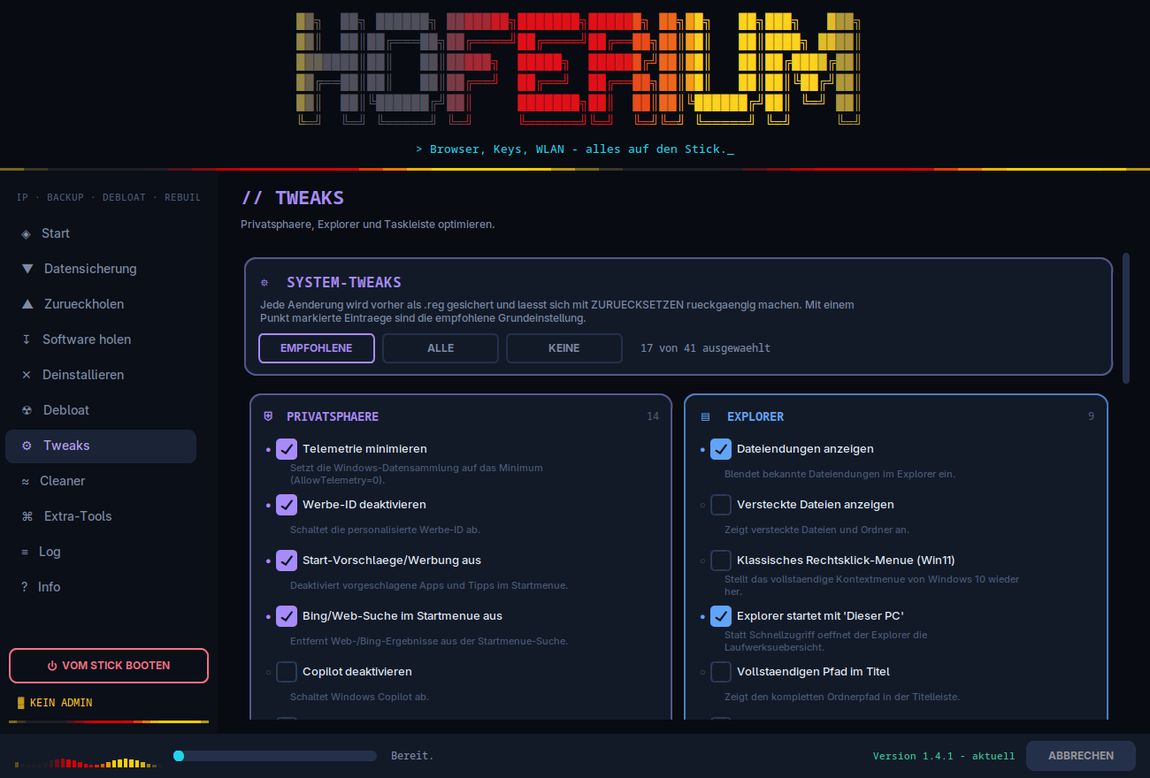
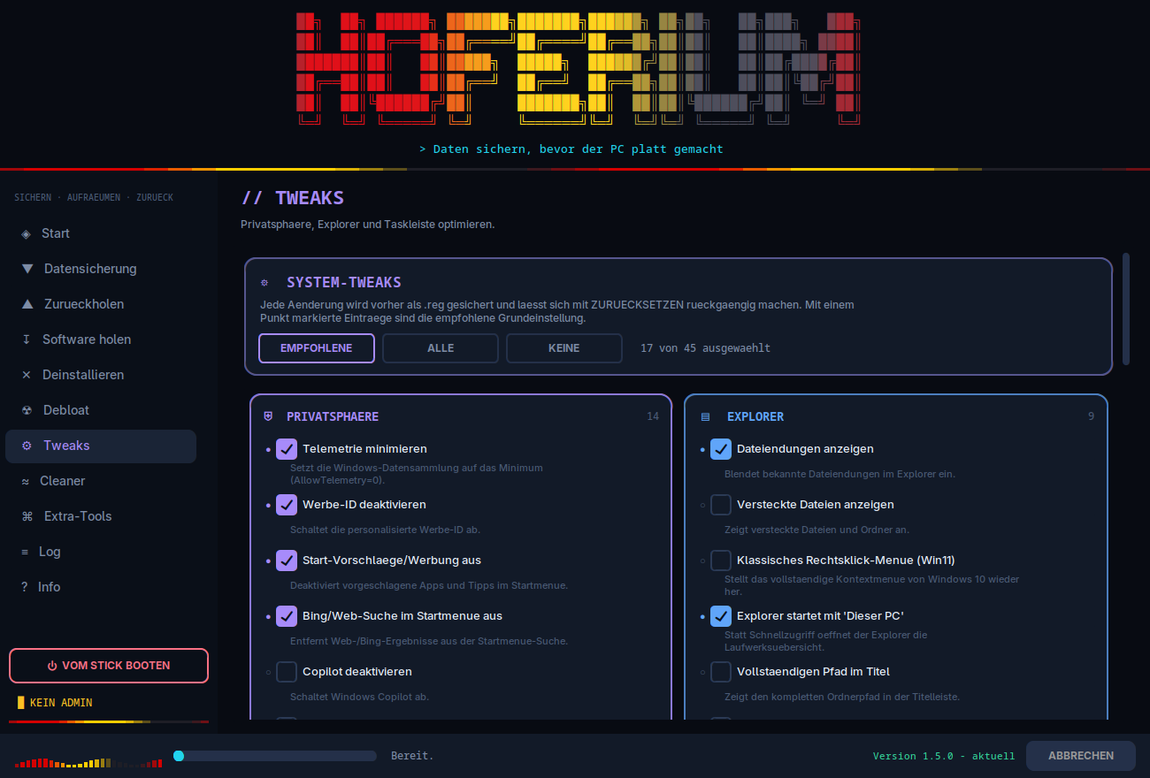
Tweaks: neue Kategorie "Anmeldung"
Vier Einstellungen rund um die Kennwortabfrage:
- Automatische Anmeldung freischalten
- Kein Passwort nach dem Ruhezustand (AC und DC)
- Sperrbildschirm ueberspringen
- Kein Strg+Alt+Entf zum Anmelden

Zur automatischen Anmeldung fuehren zwei Wege. Der verbreitete traegt
Benutzername und Passwort im KLARTEXT in die Registry
(Winlogon\DefaultPassword) - dort kann es jeder Leseberechtigte abholen.
Deshalb wird hier nur die netplwiz-Option freigeschaltet
(DevicePasswordLessBuildVersion=0); Windows legt das Kennwort danach
verschluesselt als LSA-Geheimnis ab. Hoferium schreibt kein Passwort.

Tweaks koennen jetzt einen Hinweis mitfuehren, der nach dem Anwenden im
Protokoll erscheint - hier der letzte Schritt in netplwiz, den das
Programm nicht abnehmen kann.

Damit 45 Tweaks in sieben Kategorien. README und LIESMICH ergaenzt,
samt dem Hinweis, dass alle vier Einstellungen jedem physischen Zugang
die Tuer oeffnen.

Version 1.6.0

diff --git a/nucleus/tweaks.py b/nucleus/tweaks.py
@@ -28,8 +28,9 @@ class Tweak:
     name: str
     category: str
     description: str
-    ops: list           # {hive, path, name, type('DWORD'|'SZ'), on, off}
+    ops: list           # {hive, path, name, type('DWORD'|'SZ'|'BINARY'), on, off}
     recommended: bool = False
+    hint: str = ""      # wird nach dem Anwenden ins Protokoll geschrieben
 
 
 TWEAKS: list = [
@@ -250,6 +251,48 @@ TWEAKS: list = [
           [{"hive": "HKLM",
             "path": r"SYSTEM\CurrentControlSet\Control\GraphicsDrivers",
             "name": "HwSchMode", "type": "DWORD", "on": 2, "off": 1}]),
+
+    # ---------------- Anmeldung ----------------
+    # Hinweis zum ersten Eintrag: Es gibt zwei Wege zur automatischen
+    # Anmeldung. Der verbreitete traegt Benutzername und Passwort IM KLARTEXT
+    # in die Registry (Winlogon\DefaultPassword) - jeder Leseberechtigte kann
+    # es dort abholen. Deshalb wird hier nur die netplwiz-Option
+    # freigeschaltet: Windows legt das Passwort danach verschluesselt als
+    # LSA-Geheimnis ab, nicht im Klartext.
+    Tweak("passwordless_option", "Automatische Anmeldung freischalten", "Anmeldung",
+          "Blendet in netplwiz die Option 'Benutzer muessen Benutzernamen und "
+          "Kennwort eingeben' wieder ein - bei Microsoft-Konten ist sie ab Werk "
+          "versteckt. Das Passwort wird dabei verschluesselt hinterlegt, nicht "
+          "im Klartext.",
+          [{"hive": "HKLM",
+            "path": r"SOFTWARE\Microsoft\Windows NT\CurrentVersion\PasswordLess\Device",
+            "name": "DevicePasswordLessBuildVersion", "type": "DWORD",
+            "on": 0, "off": 2}],
+          hint="Jetzt Windows-Taste+R druecken, 'netplwiz' eingeben, den Haken "
+               "bei 'Benutzer muessen Benutzernamen und Kennwort eingeben' "
+               "entfernen und das Passwort einmal bestaetigen."),
+    Tweak("no_wake_password", "Kein Passwort nach dem Ruhezustand", "Anmeldung",
+          "Nach Standby oder Bildschirmsperre wird nicht mehr nach dem Kennwort "
+          "gefragt - weder im Akku- noch im Netzbetrieb.",
+          [{"hive": "HKLM",
+            "path": r"SOFTWARE\Policies\Microsoft\Power\PowerSettings"
+                    r"\0e796bdb-100d-47d6-a2d5-f7d2daa51f51",
+            "name": "ACSettingIndex", "type": "DWORD", "on": 0, "off": 1},
+           {"hive": "HKLM",
+            "path": r"SOFTWARE\Policies\Microsoft\Power\PowerSettings"
+                    r"\0e796bdb-100d-47d6-a2d5-f7d2daa51f51",
+            "name": "DCSettingIndex", "type": "DWORD", "on": 0, "off": 1}]),
+    Tweak("no_lockscreen", "Sperrbildschirm ueberspringen", "Anmeldung",
+          "Beim Start erscheint direkt die Anmeldung statt des Bildes, das man "
+          "erst wegklicken muss.",
+          [{"hive": "HKLM",
+            "path": r"SOFTWARE\Policies\Microsoft\Windows\Personalization",
+            "name": "NoLockScreen", "type": "DWORD", "on": 1, "off": 0}]),
+    Tweak("no_ctrl_alt_del", "Kein Strg+Alt+Entf zum Anmelden", "Anmeldung",
+          "Entfernt den zusaetzlichen Tastendruck vor der Kennworteingabe.",
+          [{"hive": "HKLM",
+            "path": r"SOFTWARE\Microsoft\Windows\CurrentVersion\Policies\System",
+            "name": "DisableCAD", "type": "DWORD", "on": 1, "off": 0}]),
 ]
 
 
@@ -281,6 +324,8 @@ class TweakEngine:
                         self._set(op["hive"], op["path"], op["name"], op["type"], value)
                 ok += 1
                 self.r.ok(f"{tw.name}: {'aktiviert' if enable else 'zurueckgesetzt'}")
+                if enable and tw.hint:
+                    self.r.warn(f"  Noch zu tun: {tw.hint}")
             except Exception as e:
                 fail += 1
                 self.r.err(f"{tw.name}: {e}")

diff --git a/nucleus/ui.py b/nucleus/ui.py
@@ -1584,6 +1584,7 @@ class HoferiumApp(ctk.CTk):
         "Tempo":         (COLORS["amber"], "⚡"),
         "Updates":       (COLORS["magenta"], "↻"),
         "Gaming":        (COLORS["green"], "◈"),
+        "Anmeldung":     (COLORS["cyan"], "⚿"),
     }
 
     def _build_tweaks(self):

diff --git a/nucleus/__init__.py b/nucleus/__init__.py
@@ -13,5 +13,5 @@ Aufbau (OOP):
     ui          - customtkinter-Oberflaeche (Fenster, Seiten, Widgets)
 """
 
-__version__ = "1.5.0"
+__version__ = "1.6.0"
 APP_NAME = "Hoferium"

diff --git a/README.md b/README.md
@@ -4,7 +4,7 @@
 
 **Windows-PCs neu aufsetzen, ohne vorher stundenlang Daten zusammenzusuchen.**
 
-[![Version](https://img.shields.io/badge/Version-1.5.0-ffce00?style=flat-square&labelColor=1e1e26)](VERSION)
+[![Version](https://img.shields.io/badge/Version-1.6.0-ffce00?style=flat-square&labelColor=1e1e26)](VERSION)
 [![Windows](https://img.shields.io/badge/Windows-10%20%7C%2011-dd0000?style=flat-square&labelColor=1e1e26)](#voraussetzungen)
 [![Python](https://img.shields.io/badge/Python-wird%20mitinstalliert-1e1e26?style=flat-square&labelColor=1e1e26)](#voraussetzungen)
 [![Lizenz](https://img.shields.io/badge/Lizenz-MIT-1e1e26?style=flat-square&labelColor=1e1e26)](LICENSE)
@@ -34,7 +34,7 @@ selbst ein.
 | **Software** | Installer von den offiziellen Quellen laden oder direkt per `winget` einspielen; fehlt `winget`, richtet Hoferium es selbst ein. Die Programmliste wird beim Start aus diesem Repository aufgefrischt |
 | **Deinstallieren** | Win32- und Store-Programme mit Suchfeld auflisten und entfernen, auf Wunsch samt Datei- und Registry-Resten |
 | **Debloat** | Vorinstallierte Windows-Apps und Herstellerzugaben entfernen – als Ein-Klick-Lauf oder gezielt ausgewählt, Edge optional |
-| **Tweaks** | 41 umkehrbare Einstellungen zu Privatsphäre, Explorer, Taskleiste, Tempo, Updates und Gaming |
+| **Tweaks** | 45 umkehrbare Einstellungen zu Privatsphäre, Anmeldung, Explorer, Taskleiste, Tempo, Updates und Gaming |
 | **Cleaner** | Temp-Dateien (Benutzer und System), Update-Zwischenspeicher, Prefetch, Miniaturansichten und Papierkorb – mit Größenaufstellung vor dem Löschen |
 | **Werkzeuge** | Startet WinUtil, O&O ShutUp10++ und drei Sysinternals-Programme aus den Originalquellen |
 | **Vom Stick booten** | Startet den Rechner neu in die Startoptionen mit Geräteauswahl – oder ins UEFI-Setup |
@@ -120,6 +120,22 @@ läuft. Der Export dauert zwei Klicks; die CSV-Datei gehört mit auf den Stick
 und sollte nach dem Import wieder gelöscht werden.
 
 Hoferium entschlüsselt keine Passwörter und liest keine Anmeldedaten aus.
+
+### Anmeldung ohne Passwort
+
+Unter *Tweaks → Anmeldung* lässt sich die Kennwortabfrage abschalten. Für die
+**automatische Anmeldung beim Start** schaltet Hoferium die entsprechende
+Option in `netplwiz` frei, statt Benutzername und Kennwort in die Registry zu
+schreiben – der verbreitete Weg über `AutoAdminLogon` legt das Passwort dort im
+**Klartext** ab, wo es jeder Leseberechtigte abholen kann. Nach dem Anwenden
+nennt das Protokoll den letzten Schritt: `netplwiz` öffnen, Haken entfernen,
+Kennwort einmal bestätigen. Windows hinterlegt es dann verschlüsselt.
+
+Daneben stehen: keine Kennwortabfrage nach dem Ruhezustand, Sperrbildschirm
+überspringen und die Anmeldung ohne Strg+Alt+Entf.
+
+Alle vier bedeuten, dass jeder mit Zugang zum Gerät hineinkommt – auf einem
+Notebook entsprechend abwägen.
 
 ## Was es bewusst nicht tut
 
